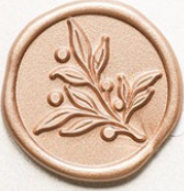
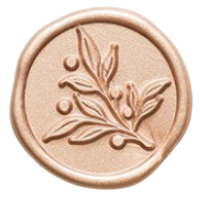
Envelope seal: swap in user's background-removed wax seal PNG, fit with drop-shadow instead of circular crop

diff --git a/style.css b/style.css
@@ -169,23 +169,17 @@ body.envelope-lock { overflow: hidden; height: 100vh; }
 }
 .envelope-seal {
   position: relative;
-  width: 76px; height: 76px;
-  border-radius: 50%;
-  overflow: hidden;
-  box-shadow:
-    0 10px 18px rgba(30,18,8,.4),
-    inset 0 2px 3px rgba(255,235,210,.35),
-    inset 0 -4px 7px rgba(0,0,0,.25);
+  width: 78px; height: 78px;
   display: flex; align-items: center; justify-content: center;
   z-index: 1;
   transform: translateY(50%);
   transition: transform .6s cubic-bezier(.34,1.56,.64,1), opacity .35s ease .45s, filter .6s ease;
 }
 .envelope-seal img {
-  width: 118%;
-  height: 118%;
-  object-fit: cover;
-  object-position: center;
+  width: 100%;
+  height: 100%;
+  object-fit: contain;
+  filter: drop-shadow(0 8px 14px rgba(20,15,4,.45));
 }
 .envelope-intro.opening .envelope-seal {
   transform: translateY(50%) translateY(-18px) scale(1.06) rotate(-6deg);
